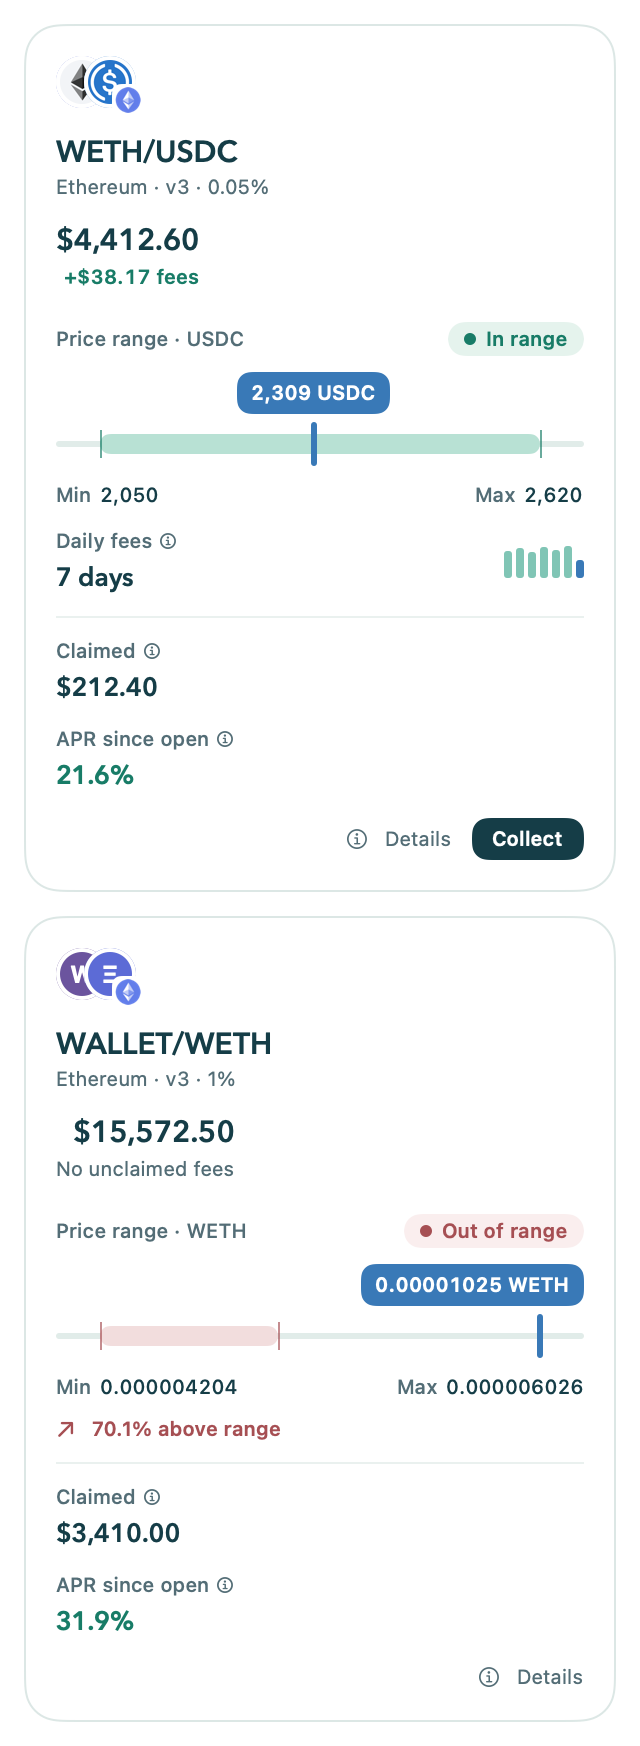
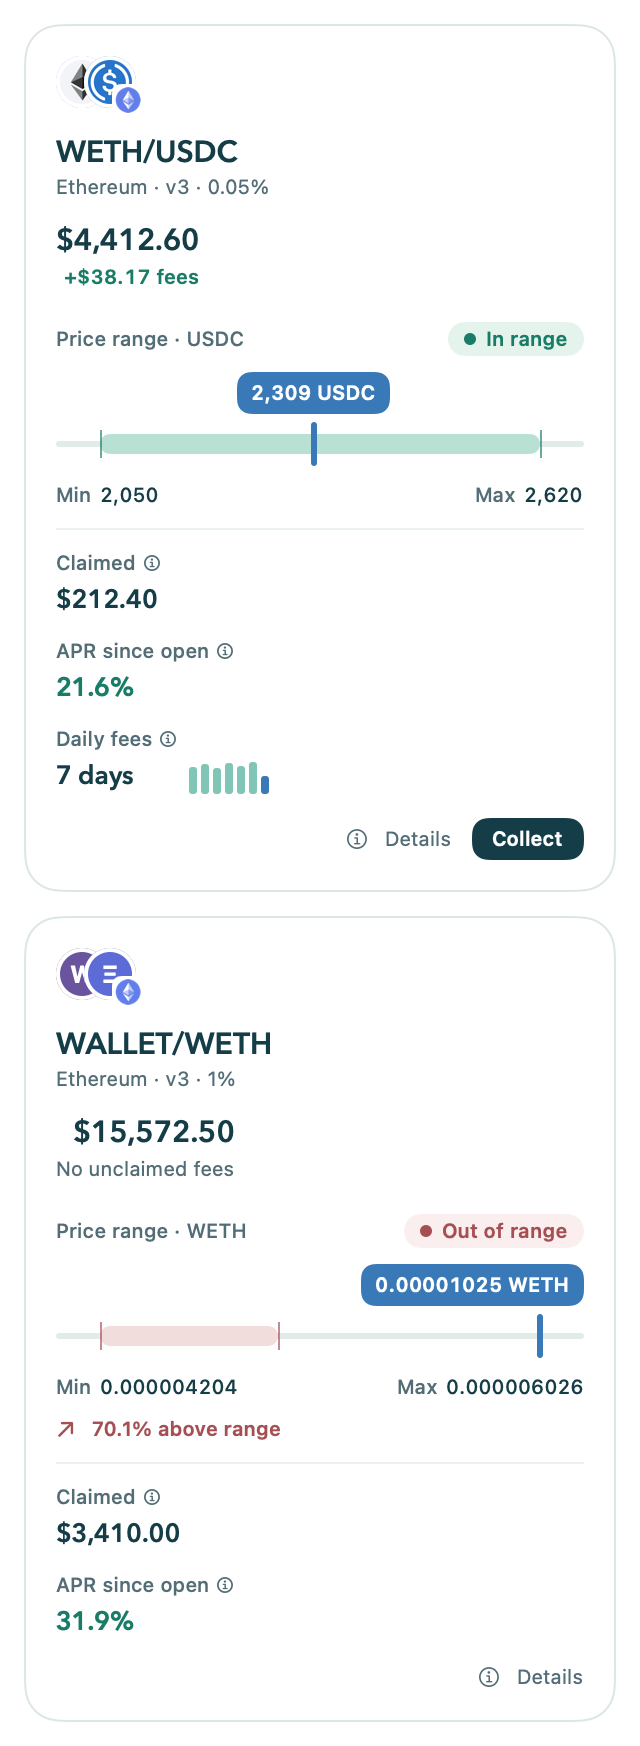
style: group daily fees with position return metrics

Changed region(s): [[0.0938, 0.3093, 0.4375, 0.4639], [0.7812, 0.3093, 0.9062, 0.3402]]

diff --git a/Sources/PoolserKit/Presentation/GraphitePositionCard.swift b/Sources/PoolserKit/Presentation/GraphitePositionCard.swift
@@ -40,7 +40,6 @@ public struct GraphitePositionCard: View {
             VStack(alignment: .leading, spacing: 10) {
                 header(info)
                 rangeSection(info, colors: colors)
-                dailyFees
                 footer
             }
             .padding(16)
@@ -218,25 +217,38 @@ public struct GraphitePositionCard: View {
     }
 
     private var earnings: some View {
-        let layout = dynamicTypeSize.isAccessibilitySize ? AnyLayout(VStackLayout(alignment: .leading, spacing: 10)) : AnyLayout(HStackLayout(alignment: .top, spacing: 16))
+        Group {
+            if dynamicTypeSize.isAccessibilitySize {
+                VStack(alignment: .leading, spacing: 10) { earningsMetrics }
+            } else {
+                ViewThatFits(in: .horizontal) {
+                    HStack(alignment: .top, spacing: 16) { earningsMetrics }
+                        .fixedSize(horizontal: true, vertical: false)
+                    VStack(alignment: .leading, spacing: 10) { earningsMetrics }
+                }
+            }
+        }
+    }
+
+    private var earningsMetrics: some View {
         let claimed = position.claimedCardLabel
         let syncing = position.feeHistoryBootstrapping
         let apr = syncing ? nil : position.realizedAPR()
-        return layout {
+        return Group {
             PositionMetric(title: syncing ? "Claimed · syncing" : "Claimed", value: claimed ?? (syncing ? "Syncing…" : "–"),
                            explanation: claimedHelp)
             PositionMetric(title: "APR since open", value: apr.map { formatPercent($0) } ?? "–",
                            explanation: realizedReturnHelp, tint: apr == nil ? palette.secondaryText : palette.fees)
+            dailyFees
         }
     }
 
     @ViewBuilder
     private var dailyFees: some View {
         if let values = recentDailyFees, !values.isEmpty {
-            HStack(spacing: 16) {
+            HStack(alignment: .bottom, spacing: 6) {
                 PositionMetric(title: "Daily fees", value: "\(values.count) days",
                                explanation: "Fees earned per day, oldest first; the rightmost bar is today. Today \(formatUSD(values.last ?? 0)) · best day \(formatUSD(values.max() ?? 0)).")
-                Spacer(minLength: 0)
                 MiniFeeBars(values: values, today: palette.barToday, earlier: palette.bar)
             }
         }

diff --git a/docs/BRAND.md b/docs/BRAND.md
@@ -31,7 +31,7 @@ Use an 8-point spacing rhythm, 16–20-point continuous card corners, hairline s
 
 Always show unclaimed fees, portfolio value, today's fees once in the blue chart badge labelled Today when available, daily bar chart, selected period, claimed fees, pool level and realized APR when known. Do not repeat position and chain counts beneath Total value; the position list provides that context. Keep syncing and unavailable states truthful. Retain wallet navigation, filters, sorting, collect actions, errors and refresh status.
 
-Position cards use Range + Return (Диапазон + доходност): pair, chain/version/fee tier, value and unclaimed fees in the header; a labelled price range with a blue current-price badge and marker; Min/Max prices; a Daily fees row with period and mini bars; claimed fees and realized APR since opening in a quiet footer. Range status sits beside the range heading, and out-of-range distance stays visible with a directional arrow. Holdings, opening date, position ID, the position's pool level and pool statistics stay in the keyboard-accessible Details popup on macOS and iOS. Opening Uniswap remains a separate explicit action. Do not hide error or collection status inside hover content.
+Position cards use Range + Return (Диапазон + доходност): pair, chain/version/fee tier, value and unclaimed fees in the header; a labelled price range with a blue current-price badge and marker; Min/Max prices; a quiet footer with claimed fees, realized APR since opening and Daily fees with period and mini bars on the same row. Range status sits beside the range heading, and out-of-range distance stays visible with a directional arrow. Holdings, opening date, position ID, the position's pool level and pool statistics stay in the keyboard-accessible Details popup on macOS and iOS. Opening Uniswap remains a separate explicit action. Do not hide error or collection status inside hover content.
 
 Daily bars reveal their date and amount on hover or tap; keyboard and screen-reader users can activate each bar for the same information. Show average daily earnings in the chart context rather than repeating it across the summary. Explain pool return and APR alongside those metrics; do not imply projected yield is realized return.
 
@@ -71,9 +71,9 @@ Claimed and APR since open are always labelled on the main card. Show a known US
 
 In the position header, replace a known zero unclaimed balance with No unclaimed fees in secondary ink. A positive USD amount below one cent reads <$0.01 fees in jade, never a rounded zero or an empty-balance message. Keep token amounts when USD pricing is unavailable and keep read failures unavailable rather than treating them as zero.
 
-Show Daily fees between the range and footer when recorded daily history is nonempty. Retain the actual number of days, the original mini bars and the blue rightmost bar for today. The info control opens the existing Today/best-day explanation on click, tap or keyboard activation; there is no duplicate hover tooltip. Hide the row for missing history rather than inventing zero-fee days. Do not repeat it inside Details.
+Show Daily fees as the third footer metric beside Claimed and APR since open when recorded daily history is nonempty. Place the mini bars next to its day count, aligned with the other metric values; do not reserve a separate fee-history row above the divider. Retain the actual number of days and the blue rightmost bar for today. The info control opens the existing Today/best-day explanation on click, tap or keyboard activation; there is no duplicate hover tooltip. Hide the metric for missing history rather than inventing zero-fee days. Do not repeat it inside Details.
 
-At narrow widths or large text sizes, stack the header, Min/Max labels and footer as needed. Move Details and Collect onto a separate action row before compressing the financial data. Preserve Collect, errors, context menus and all existing actions. All Wallets rows and widgets keep their existing compact gauges.
+At narrow widths or large text sizes, stack the header, Min/Max labels and footer metrics as needed. Move Details and Collect onto a separate action row before compressing the three financial metrics. Preserve Collect, errors, context menus and all existing actions. All Wallets rows and widgets keep their existing compact gauges.
 
 Reference captures from the implemented shared cards: [light](screenshots/redesign/position-cards-light.png), [dark](screenshots/redesign/position-cards-dark.png), [accessibility layout](screenshots/redesign/position-cards-accessibility.png). Use `POOLSER_SCREENSHOT_FILTER=position-cards` to regenerate this set.
 
